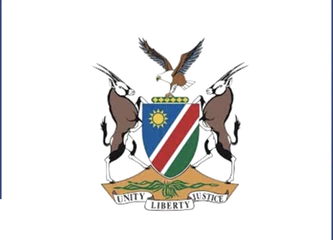
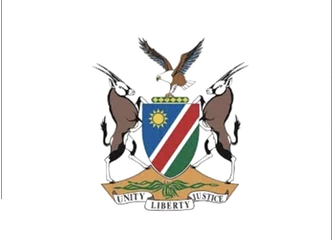
audit: full verification round - free coat-of-arms from baked border box, dedupe footer CSS, trim profile description
- Coat of arms client logo had a baked opaque navy border frame (visible box
  on the light clients band); removed via edge flood-fill, emblem untouched.
- /profile meta description 187 -> 134 chars, back inside the 120-160 band.
- Removed a wholesale duplicated footer CSS cluster (7 byte-identical rules,
  2 dead giant-mark rules); unique load-bearing rules merged into the
  primary block first. Duplicate-rule count now 0.
- Verified: live crawl of 28 URLs clean (meta, canonical, og:url, JSON-LD,
  alt, headers, staging noindex), dead-CSS 0/355, QA + 79 responsive +
  22 a11y tests all pass.

Changed region(s): [[0.991, 0.0, 1.0, 1.0]]

diff --git a/src/app/globals.css b/src/app/globals.css
@@ -411,6 +411,7 @@ h3 { font-size: clamp(1.45rem, 2.5vw, 2.4rem); }
 
 .site-footer__menus {
   display: grid;
+  gap: 0;
 }
 
 .site-footer__accordion {
@@ -536,6 +537,11 @@ h3 { font-size: clamp(1.45rem, 2.5vw, 2.4rem); }
   margin: 0;
 }
 
+.site-footer__legal-inner .site-footer__social {
+  padding-top: 0;
+  border-top: 0;
+}
+
 .site-footer__social {
   display: flex;
   align-items: center;
@@ -601,6 +607,7 @@ h3 { font-size: clamp(1.45rem, 2.5vw, 2.4rem); }
   .home-hero h1 { max-width: 10ch; font-size: clamp(3.25rem, 14.5vw, 5.25rem); line-height: 0.91; }
   .home-hero__actions { align-items: stretch; margin-top: var(--space-6); }
   .utility-widgets { right: var(--space-3); bottom: max(var(--space-3), env(safe-area-inset-bottom)); }
+  .site-footer__stage { grid-template-columns: 1fr; }
   .introduction-section__grid, .community-feature__grid, .home-faq__grid, .page-hero__grid, .sector-verified__inner, .sector-gallery, .about-intro, .legal-section__grid, .compliance-page__grid, .contact-section__grid { grid-template-columns: 1fr; }
   .introduction-section__grid, .community-feature__grid { gap: var(--space-8); }
   .introduction-section__copy { order: 2; }
@@ -1461,75 +1468,6 @@ h3 { font-size: clamp(1.45rem, 2.5vw, 2.4rem); }
   .blog-post__prizes th,
   .blog-post__prizes td {
     padding: var(--space-3);
-  }
-}
-
-.site-footer__stage {
-  display: grid;
-  grid-template-columns: minmax(0, 1.15fr) minmax(16rem, 0.7fr);
-  gap: clamp(2rem, 6vw, 6rem);
-  align-items: end;
-  padding: clamp(4rem, 8vw, 7rem) 0 clamp(2.5rem, 5vw, 4rem);
-}
-
-.site-footer__giant {
-  display: block;
-  max-width: 100%;
-}
-
-.site-footer__giant img {
-  width: min(100%, 36rem);
-  height: auto;
-}
-
-.site-footer__brand-col {
-  display: grid;
-  gap: var(--space-6);
-}
-
-.site-footer__menus {
-  display: grid;
-  gap: 0;
-}
-
-.site-footer__mark-band {
-  border-top: 1px solid var(--color-border-dark-subtle);
-  padding: clamp(2.5rem, 7vw, 5.5rem) 0 clamp(2rem, 5vw, 4rem);
-}
-
-.site-footer__mark-band-link {
-  display: block;
-}
-
-.site-footer__mark-band-link img {
-  width: 100%;
-  max-width: none;
-  height: auto;
-}
-
-.site-footer__legal-row {
-  border-top: 1px solid var(--color-border-dark-subtle);
-}
-
-.site-footer__legal-inner {
-  display: flex;
-  flex-wrap: wrap;
-  align-items: center;
-  justify-content: space-between;
-  gap: var(--space-3);
-  min-height: 3.25rem;
-  color: var(--color-text-dark-body);
-  font-size: 0.68rem;
-}
-
-.site-footer__legal-inner .site-footer__social {
-  padding-top: 0;
-  border-top: 0;
-}
-
-@media (max-width: 50rem) {
-  .site-footer__stage {
-    grid-template-columns: 1fr;
   }
 }
 

diff --git a/src/app/profile/page.tsx b/src/app/profile/page.tsx
@@ -11,7 +11,7 @@ import { verifiedFacts } from "@/content/site-content";
 export const metadata: Metadata = {
   title: "Company Profile",
   description:
-    "The Mendozer Investments company profile: one Namibian group across construction, technology, cooling, logistics, energy and tourism since 2009, led by Managing Director Johannes Negumbo.",
+    "The Mendozer Investments company profile: one Namibian group across six sectors since 2009, led by Managing Director Johannes Negumbo.",
   alternates: { canonical: "/profile" },
   openGraph: {
     url: "/profile",

diff --git a/AUDIT_REPORT.md b/AUDIT_REPORT.md
@@ -539,3 +539,31 @@ Guardrails updated with the copy: scripts/check-content.mjs now asserts the appr
 - Palette, fonts, spacing scale, copy, and information architecture untouched (brand-locked).
 
 **Result: 2 critical · 5 major · 1 minor — all resolved.** QA evidence: `tsc --noEmit` clean, `eslint --max-warnings=0` clean, content integrity passed (6 sectors, 75 mapped assets), production build succeeded (34/34 routes), Playwright responsive suite 79/79 (including horizontal-overflow checks at the 320px floor), Playwright axe suite 22/22 across all routes. Gate sweep notes: `overflow-x: clip` extended to `body` (gate 34), marquee pause extended to `:focus-within` (gate 18), `:active` states added to re-voiced controls (gate 26), form inputs equalised to the 3rem control height (gate 39), `--space-5: 1.25rem` formalised in the token scale (gate 24). Visual verification screenshots confirmed pill controls, circular icon buttons, soft-rounded inputs, and watermark placement on About, Services, FAQ, CTA, and mobile surfaces.
+
+---
+
+## Full Verification Round: 2026-09-20 (live crawl + CSS audit + client-logo freedom)
+
+**Scope:** Fresh comprehensive audit requested against the audit report. Live crawl of all 28 sitemap URLs plus checklist extras (robots.txt, favicon.ico, 404 behaviour, security headers, staging noindex), repo-wide dead-CSS and duplicate-rule detection, AI-cliche copy scan, client-logo image alpha verification, and full QA/test suite execution.
+
+### Verified healthy
+
+- All 28 sitemap URLs return 200 with unique titles, in-band descriptions, canonical, og:url, OG/Twitter tags, and valid JSON-LD; every image carries alt.
+- Security headers complete (HSTS, XCTO, referrer, CSP, frame); staging host correctly serves `X-Robots-Tag: noindex, nofollow`; favicon.ico and robots.txt healthy; footer credit present site-wide.
+- Zero em dashes and zero AI cliche words across source and rendered copy; captions remain removed except documented sr-only artist link wrappers and `/brand` identity documentation cards.
+- Dead-CSS detector: 355 classes, 0 unreferenced. Both keyframes used; single `!important` is the reduced-motion block; no `transition: all`, no drop-shadow/backdrop-filter slop; gradients are the two functional hero-contrast layers.
+
+### Issues found and fixed in this round
+
+1. **[High] Namibian coat of arms client logo shipped with a baked navy border frame** (`public/images/clients/coat-of-arms-namibia.webp`). Edge pixels were opaque navy (`rgb(47,54,109)`, alpha 255) so the logo rendered inside a visible box on the light `#f5f8fc` clients band, unlike the other eleven free-floating marks. Removed by edge flood-fill (646 frame pixels cleared, 13 feathered) with the emblem artwork untouched; re-encoded WebP q90. Verified: corners now alpha 0, composite on surface colour clean.
+2. **[Medium] `/profile` meta description at 187 characters**, outside the 120-160 house band. Trimmed to 134 characters ("...one Namibian group across six sectors since 2009...") without losing the profile's facts.
+3. **[Medium] Footer CSS block duplicated wholesale** (`globals.css` second `.site-footer__*` cluster): seven rules byte-identical to the primary footer block, plus two dead `.site-footer__giant` rules from a retired footer layout. Removed 64 duplicated/dead lines; the two load-bearing unique rules (`.site-footer__legal-inner .site-footer__social` reset and the 50rem `grid-template-columns: 1fr` stack) were merged into the primary block first. Duplicate-rule detector now reports 0.
+
+### Post-fix verification
+
+- `npm run qa` (typecheck, lint zero warnings, content integrity, production build 34/34): pass.
+- Playwright responsive suite: 79/79. Playwright axe suite: 22/22.
+- Built `/profile` HTML carries the 134-character description.
+- No route, component, palette, font, or copy changes beyond the description trim.
+
+**Result: 3 findings (1 high, 2 medium), all resolved.**
